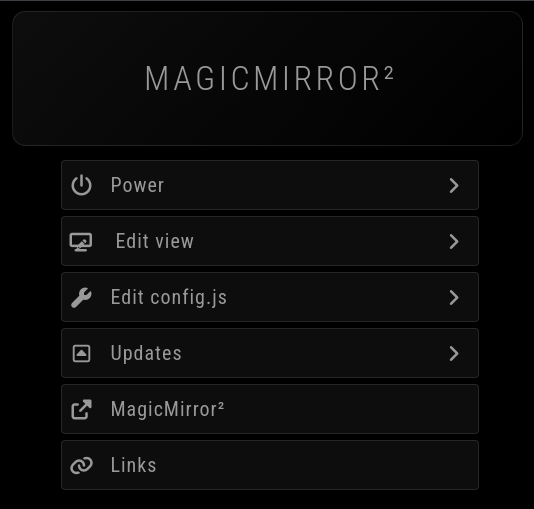
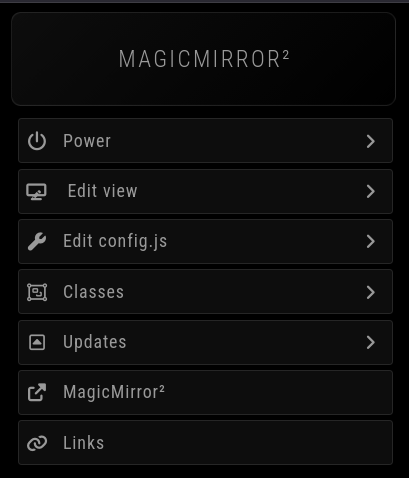
feat: add status badges and i18n for Classes menu

diff --git a/remote.js b/remote.js
@@ -726,6 +726,94 @@ const Remote = {
     return {status, modules: modules.join(", ")};
   },
 
+  /**
+   * Determines the status of a class based on visible/hidden modules
+   * @param {object} classData - Class data with show/hide/toggle arrays
+   * @returns {object} Status object with status and details
+   */
+  getClassStatus (classData) {
+    if (!classData || !this.savedData.modules) {
+      return {status: "unknown", details: ""};
+    }
+
+    // Create map for fast module access
+    const moduleMap = {};
+    for (const module of this.savedData.modules) {
+      moduleMap[module.name] = module;
+      moduleMap[module.identifier] = module;
+    }
+
+    let visibleCount = 0;
+    let hiddenCount = 0;
+    let totalCount = 0;
+
+    // Check show modules
+    if (classData.show) {
+      const showModules = Array.isArray(classData.show) ? classData.show : [classData.show];
+      for (const moduleName of showModules) {
+        const module = moduleMap[moduleName];
+        if (module) {
+          totalCount++;
+          if (module.hidden) {
+            hiddenCount++;
+          } else {
+            visibleCount++;
+          }
+        }
+      }
+    }
+
+    // Check hide modules
+    if (classData.hide) {
+      const hideModules = Array.isArray(classData.hide) ? classData.hide : [classData.hide];
+      for (const moduleName of hideModules) {
+        const module = moduleMap[moduleName];
+        if (module) {
+          totalCount++;
+          if (module.hidden) {
+            hiddenCount++;
+          } else {
+            visibleCount++;
+          }
+        }
+      }
+    }
+
+    // Check toggle modules (we just show if they're visible/hidden)
+    if (classData.toggle) {
+      const toggleModules = Array.isArray(classData.toggle) ? classData.toggle : [classData.toggle];
+      for (const moduleName of toggleModules) {
+        const module = moduleMap[moduleName];
+        if (module) {
+          totalCount++;
+          if (module.hidden) {
+            hiddenCount++;
+          } else {
+            visibleCount++;
+          }
+        }
+      }
+    }
+
+    // Determine status
+    let status = "class-mixed";
+    if (totalCount === 0) {
+      status = "class-empty";
+    } else if (hiddenCount === 0 && visibleCount > 0) {
+      status = "class-active";
+    } else if (visibleCount === 0 && hiddenCount > 0) {
+      status = "class-inactive";
+    }
+
+    return {
+      status,
+      details: `${visibleCount}/${totalCount}`,
+      visibleCount,
+      hiddenCount,
+      totalCount
+    };
+  },
+
   addToggleElements (parent) {
     const outerSpan = document.createElement("span");
     outerSpan.className = "stack fa-fw";
@@ -1401,7 +1489,11 @@ const Remote = {
 
   async loadClasses () {
     try {
+      // Always reload module data to get fresh status
+      const {data: moduleData} = await this.loadList("visible-modules", "modules");
+      this.savedData.modules = moduleData;
       const {data: classes} = await this.loadList("classes", "classes");
+
       for (const index in classes) {
         const node = document.createElement("div");
         node.id = "classes-before-result";
@@ -1418,7 +1510,8 @@ const Remote = {
             payload: {
               classes: index
             }
-          }
+          },
+          classData: classes[index] // Store class data for status checking
         };
 
         const existingButton = document.getElementById(`${content.id}-button`);
@@ -1787,6 +1880,102 @@ const Remote = {
     }
   },
 
+  addClassStatusBadge (item, classData) {
+    const classStatus = this.getClassStatus(classData);
+    const statusBadge = document.createElement("span");
+    statusBadge.className = `class-status-badge ${classStatus.status}`;
+    statusBadge.textContent = classStatus.details;
+    statusBadge.title = `${classStatus.visibleCount} visible, ${classStatus.hiddenCount} hidden`;
+    item.append(statusBadge);
+    item.classList.add(classStatus.status);
+  },
+
+  createMenuTypeElement (item, content, menu) {
+    const mcmArrow = document.createElement("span");
+    mcmArrow.className = "fa fa-fw fa-angle-right";
+    mcmArrow.setAttribute("aria-hidden", "true");
+    item.append(mcmArrow);
+    item.dataset.parent = menu;
+    item.dataset.type = "menu";
+    document.querySelector("#back-button").classList.add(`${content.id}-menu`);
+    const menuContent = document.querySelector(".menu-content");
+    if (menuContent) {
+      menuContent.classList.add(`${content.id}-menu`);
+    }
+    item.addEventListener("click", () => {
+      globalThis.location.hash = `${content.id}-menu`;
+    });
+  },
+
+  createSliderElement (item, content) {
+    const contain = document.createElement("div");
+    contain.classList.add("flex-1");
+
+    const slide = document.createElement("input");
+    slide.id = `${content.id}-slider`;
+    slide.className = "slider";
+    slide.type = "range";
+    slide.min = content.min || 0;
+    slide.max = content.max || 100;
+    slide.step = content.step || 10;
+    slide.value = content.defaultValue || 50;
+
+    slide.addEventListener("change", () => {
+      this.sendSocketNotification("REMOTE_ACTION", {
+        action: content.action.toUpperCase(),
+        ...content.content,
+        payload: {
+          ...content.content === undefined ? {} : (typeof content.content.payload === "string" ? {string: content.content.payload} : content.content.payload),
+          value: slide.value
+        },
+        value: slide.value
+      });
+    });
+
+    contain.append(slide);
+    item.append(contain);
+  },
+
+  createInputElement (content, menu) {
+    const input = document.createElement("input");
+    input.id = `${content.id}-input`;
+    input.className = `menu-element ${menu}-menu medium`;
+    input.type = "text";
+    input.placeholder = content.text;
+
+    input.addEventListener("focusout", () => {
+      this.sendSocketNotification("REMOTE_ACTION", {
+        action: content.action.toUpperCase(),
+        ...content.content,
+        payload: {
+          ...content.content === undefined ? {} : (typeof content.content.payload === "string" ? {string: content.content.payload} : content.content.payload),
+          value: input.value
+        },
+        value: input.value
+      });
+    });
+
+    return input;
+  },
+
+  addItemClickHandler (item, content, menu) {
+    item.dataset.type = "item";
+    item.addEventListener("click", () => {
+      this.sendSocketNotification("REMOTE_ACTION", {
+        action: content.action.toUpperCase(),
+        payload: {},
+        ...content.content
+      });
+
+      // Reload classes menu after executing class action to update status badges
+      if (content.action === "MANAGE_CLASSES" && menu === "classes") {
+        setTimeout(() => {
+          this.loadClasses();
+        }, 1000);
+      }
+    });
+  },
+
   createMenuElement (content, menu, insertAfter) {
     if (!content) { return; }
     const item = document.createElement("div");
@@ -1807,87 +1996,24 @@ const Remote = {
       item.append(mcmText);
     }
 
+    // Add status badge for Classes menu
+    if (menu === "classes" && content.classData) {
+      this.addClassStatusBadge(item, content.classData);
+    }
+
     switch (content.type) {
-      case "menu": {
-        const mcmArrow = document.createElement("span");
-        mcmArrow.className = "fa fa-fw fa-angle-right";
-        mcmArrow.setAttribute("aria-hidden", "true");
-        item.append(mcmArrow);
-        item.dataset.parent = menu;
-        item.dataset.type = "menu";
-        document.querySelector("#back-button").classList.add(`${content.id}-menu`);
-        const menuContent = document.querySelector(".menu-content");
-        if (menuContent) {
-          menuContent.classList.add(`${content.id}-menu`);
+      case "menu":
+        this.createMenuTypeElement(item, content, menu);
+        break;
+      case "slider":
+        this.createSliderElement(item, content);
+        break;
+      case "input":
+        return this.createInputElement(content, menu);
+      default:
+        if (content.action && content.content) {
+          this.addItemClickHandler(item, content, menu);
         }
-        item.addEventListener("click", () => {
-          globalThis.location.hash = `${content.id}-menu`;
-        });
-
-        break;
-      }
-      case "slider": {
-        const contain = document.createElement("div");
-        contain.classList.add("flex-1");
-
-        const slide = document.createElement("input");
-        slide.id = `${content.id}-slider`;
-        slide.className = "slider";
-        slide.type = "range";
-        slide.min = content.min || 0;
-        slide.max = content.max || 100;
-        slide.step = content.step || 10;
-        slide.value = content.defaultValue || 50;
-
-        slide.addEventListener("change", () => {
-          this.sendSocketNotification("REMOTE_ACTION", {
-            action: content.action.toUpperCase(),
-            ...content.content,
-            payload: {
-              ...content.content === undefined ? {} : (typeof content.content.payload === "string" ? {string: content.content.payload} : content.content.payload),
-              value: slide.value
-            },
-            value: slide.value
-          });
-        });
-
-        contain.append(slide);
-        item.append(contain);
-
-        break;
-      }
-      case "input": {
-        const input = document.createElement("input");
-        input.id = `${content.id}-input`;
-        input.className = `menu-element ${menu}-menu medium`;
-        input.type = "text";
-        input.placeholder = content.text;
-
-        input.addEventListener("focusout", () => {
-          this.sendSocketNotification("REMOTE_ACTION", {
-            action: content.action.toUpperCase(),
-            ...content.content,
-            payload: {
-              ...content.content === undefined ? {} : (typeof content.content.payload === "string" ? {string: content.content.payload} : content.content.payload),
-              value: input.value
-            },
-            value: input.value
-          });
-        });
-
-        return input;
-      }
-      default: if (content.action && content.content) {
-        item.dataset.type = "item";
-        item.addEventListener("click", () => {
-          this.sendSocketNotification("REMOTE_ACTION", {
-            action: content.action.toUpperCase(),
-            payload: {},
-            ...content.content
-          });
-        });
-      }
-
     }
 
     if (!globalThis.location.hash && menu !== "main" ||

diff --git a/remote.css b/remote.css
@@ -1293,3 +1293,40 @@ pre {
     box-shadow: var(--accent-glow);
   }
 }
+
+/* ===== Classes Menu Status Badges ===== */
+.class-status-badge {
+  margin-left: auto;
+  padding: 0.3em 0.6em;
+  border-radius: 1em;
+  font-size: 0.75em;
+  font-weight: 600;
+  letter-spacing: 0.05em;
+  border: 1px solid;
+  min-width: 2.5em;
+  text-align: center;
+}
+
+.class-active .class-status-badge {
+  background: rgba(76, 175, 80, 0.2);
+  border-color: #4caf50;
+  color: #4caf50;
+}
+
+.class-inactive .class-status-badge {
+  background: rgba(244, 67, 54, 0.2);
+  border-color: #f44336;
+  color: #f44336;
+}
+
+.class-mixed .class-status-badge {
+  background: rgba(255, 152, 0, 0.2);
+  border-color: #ff9800;
+  color: #ff9800;
+}
+
+.class-empty .class-status-badge {
+  background: rgba(158, 158, 158, 0.2);
+  border-color: #9e9e9e;
+  color: #9e9e9e;
+}

diff --git a/remote.html b/remote.html
@@ -67,8 +67,8 @@
               <span class="fa fa-fw fa-angle-right" aria-hidden="true"></span>
             </div>
             <div id="classes-button" class="button" role="button" tabindex="0">
-              <span class="fa fa-fw fa-wrench" aria-hidden="true"></span>
-              <span class="text">Classes Menu</span>
+              <span class="fa fa-fw fa-object-group" aria-hidden="true"></span>
+              <span class="text">%%TRANSLATE:CLASSES_MENU_NAME%%</span>
               <span class="fa fa-fw fa-angle-right" aria-hidden="true"></span>
             </div>
             <div id="update-button" class="button" role="button" tabindex="0">

diff --git a/README.md b/README.md
@@ -270,6 +270,10 @@ Group modules to show/hide together with a single action. See the [Classes Guide
     }
 ```
 
+**Example of Classes in the web interface:**
+
+![Classes Example](img/menu_classes.png)
+
 ### Custom Menu Items
 
 Create custom buttons in the web interface. See the [Custom Menus Guide](docs/guide/custom-menus.md) for details.
